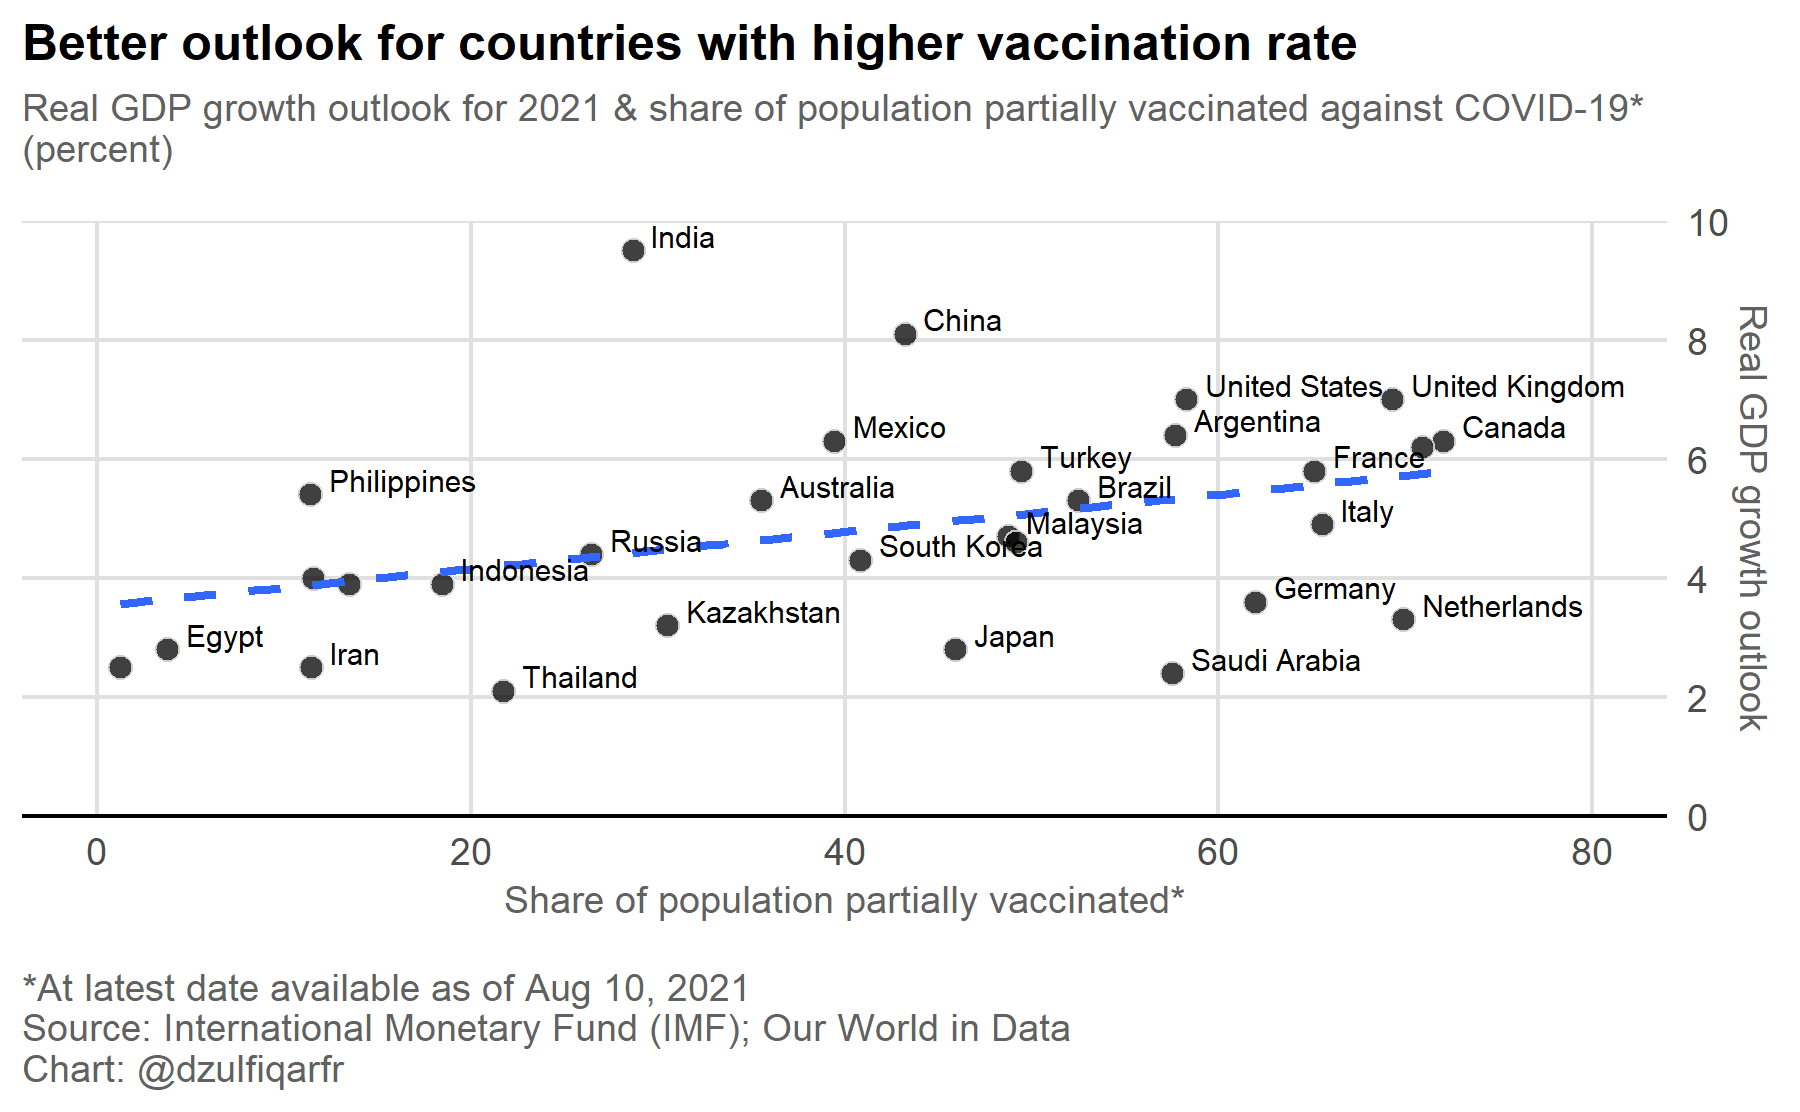
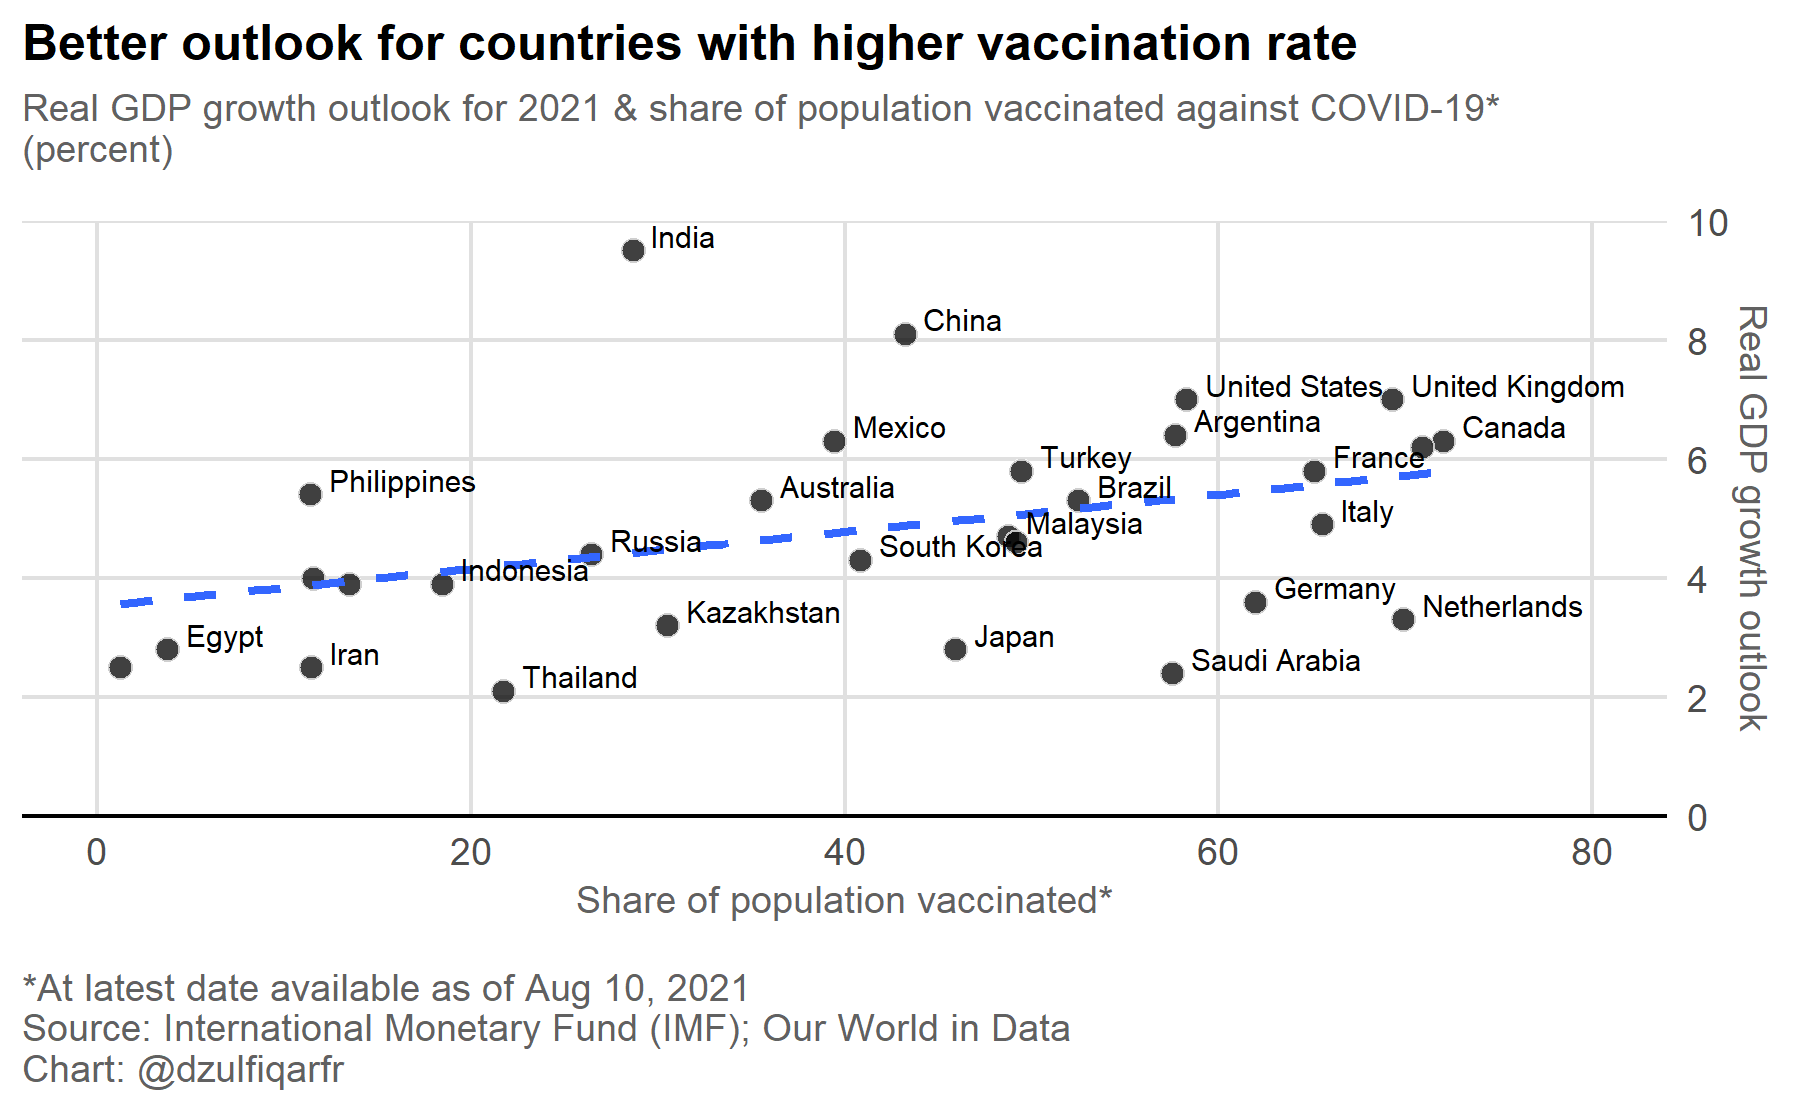
Fix documentation, charts for Lopsided Recovery
This commit fixes the misleading description for the vaccination metric.
The previous documentation states the analysis takes a look at share of
people **partially** vaccinated against COVID-19, while it is actually
the **total** share of people vaccinated against the virus.

The fix applies to both the description in the documentation and the charts.

Changed region(s): [[0.5289, 0.0612, 0.9022, 0.1223], [0.28, 0.795, 0.6533, 0.8255]]

diff --git a/20210729_lopsided-recovery/README.md b/20210729_lopsided-recovery/README.md
@@ -233,15 +233,16 @@ ggplot(weo_2021_revision, aes(x = revision, y = country)) +
 ## Vaccination campaign
 
 The IMF stated that the latest WEO showed a split among countries based
-on their vaccination rate. The higher the vacicnation rate the better
+on their vaccination rate. The higher the vaccination rate the better
 outlook they have.
 
 We can check how far the real GDP growth outlook varies with vaccination
 rate using vaccination data from
 <a href="https://github.com/owid/covid-19-data/tree/master/public/data" target="_blank">Our World in Data (OWID)</a>.
-We will take a look at the share of population partially vaccinated
-against COVID-19 at the latest date available. This metric shows the
-bare minimum in preventing people from contracting the virus.
+We will take a look at the total share of population vaccinated against
+COVID-19 at the latest date available. This metric takes into account
+both people who have been fully vaccinated and those who have received
+their first shot.
 
 ``` r
 url_owid <- "https://covid.ourworldindata.org/data/owid-covid-data.csv"
@@ -337,10 +338,10 @@ ggplot(weo_vax, aes(people_vaccinated_per_hundred, growth)) +
     title = "Better outlook for countries with higher vaccination rate",
     subtitle = str_c(
       "Real GDP growth outlook for 2021 & ",
-      "share of population partially vaccinated against COVID-19*\n",
+      "share of population vaccinated against COVID-19*\n",
       "(percent)"
     ),
-    x = "Share of population partially vaccinated*",
+    x = "Share of population vaccinated*",
     y = "Real GDP growth outlook",
     caption = str_c(
       glue("*At latest date available as of {today}"),
